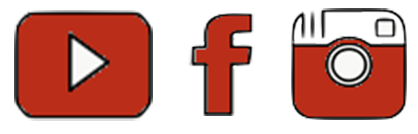
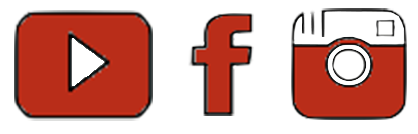
change css

diff --git a/src/App.js b/src/App.js
@@ -8,6 +8,7 @@ import Menu from './MenuComponent'
 import {BrowserRouter, Route, Router} from 'react-router-dom';
 import Contact from './ContactComponent.js'
 import { StickyContainer, Sticky } from 'react-sticky'
+import Homepage from './Homepage.js'
 
 class App extends Component {
   render() {
@@ -15,13 +16,15 @@ class App extends Component {
 
       <div className="App">
 
-        <header className="App-header red accent-4">
+        <header className="App-header deep-orange darken-4">
           <div className="row about-me">
           <Sidebar />
           <NavBar />
           </div>
         </header>
-
+        <div className="page">
+        <Homepage />
+      </div>
         <div id="Menu" className="page">
           <Menu />
         </div>

diff --git a/src/SidebarComponent.js b/src/SidebarComponent.js
@@ -7,10 +7,10 @@ class Sidebar extends Component {
   render() {
     return(
 <div className="col s10 m4 l3">
-       <div className="card-panel orange lighten-5">
+       <div className="card-panel grey">
          <div className="pictures">
            <center>
-            <img src={logo} /><p>
+            <img src={logo} className="icons"/><p>
             <img src={socialmedia} className="icons" usemap="#image-map" />
 
           <map name="image-map">
@@ -26,9 +26,9 @@ class Sidebar extends Component {
           (323)309-6527
             </center>
 
-            <p> <h3>Yelpers Love us! </h3></p>
+            <p>
             <YelpReviews />
-
+          </p>
           </div>
         </div>
       </div>

diff --git a/src/NavBar.js b/src/NavBar.js
@@ -7,7 +7,7 @@ export default class NavBar extends Component {
       return(
         <div>
         <Scrollspy items={ ['menu-item', 'contact'] } currentClassName="is-current">
-        <Navbar className="navBar nav-wrapper button-collapse">
+        <Navbar className="navBar nav-wrapper button-collapse deep-orange accent-3">
           <a id="menu-item" className="nav-item" href="#Menu">
             MENU
           </a>

diff --git a/src/Homepage.js b/src/Homepage.js
@@ -1,0 +1,15 @@
+import React, { Component } from 'react';
+import { Button, Card, Row, Col } from 'react-materialize';
+
+
+class Homepage extends Component {
+  render() {
+    return(
+      <div>
+        his
+      </div>
+
+    );
+  }
+}
+export default Homepage;

diff --git a/src/MenuComponent.js b/src/MenuComponent.js
@@ -6,7 +6,7 @@ export default class Menu extends Component {
   render() {
       return(
         <div>
-          <img src={menupic} width="1100" />
+          bye
         </div>
 
       );

diff --git a/src/App.css b/src/App.css
@@ -33,9 +33,13 @@
   float: left;
 }
 
+body {
+  background-image: url('./wood.jpg')
+}
+
 .icons {
   top: 5%;
-  width: 250px;
+  width: 200px;
 }
 
 .nav-item {
